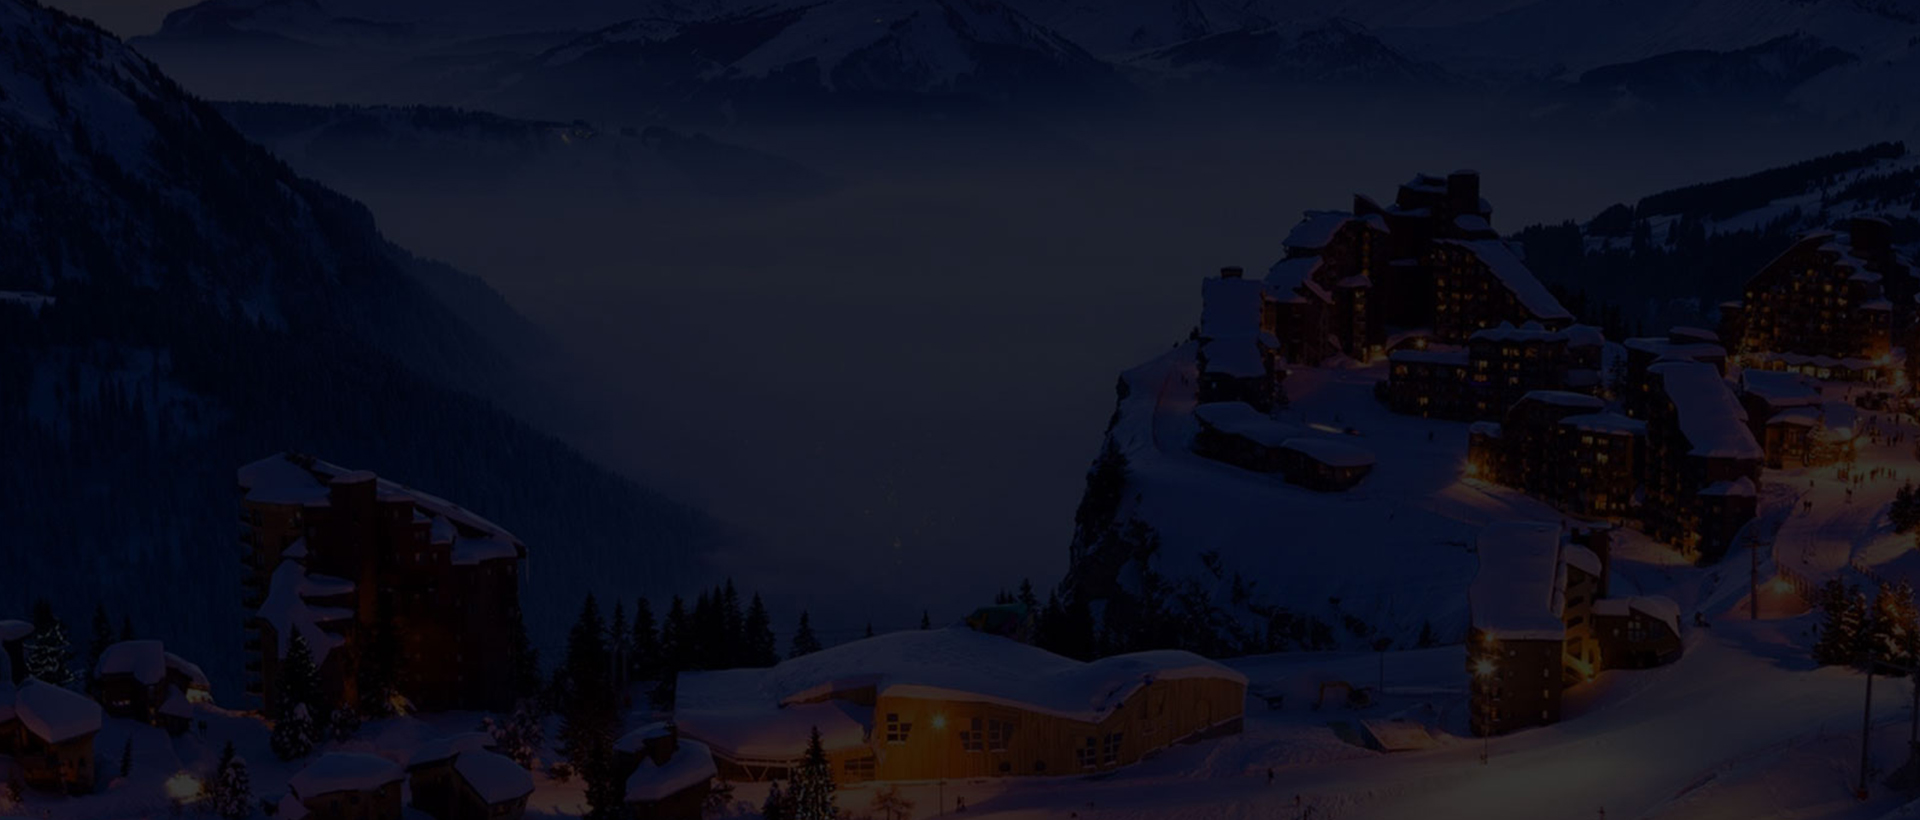
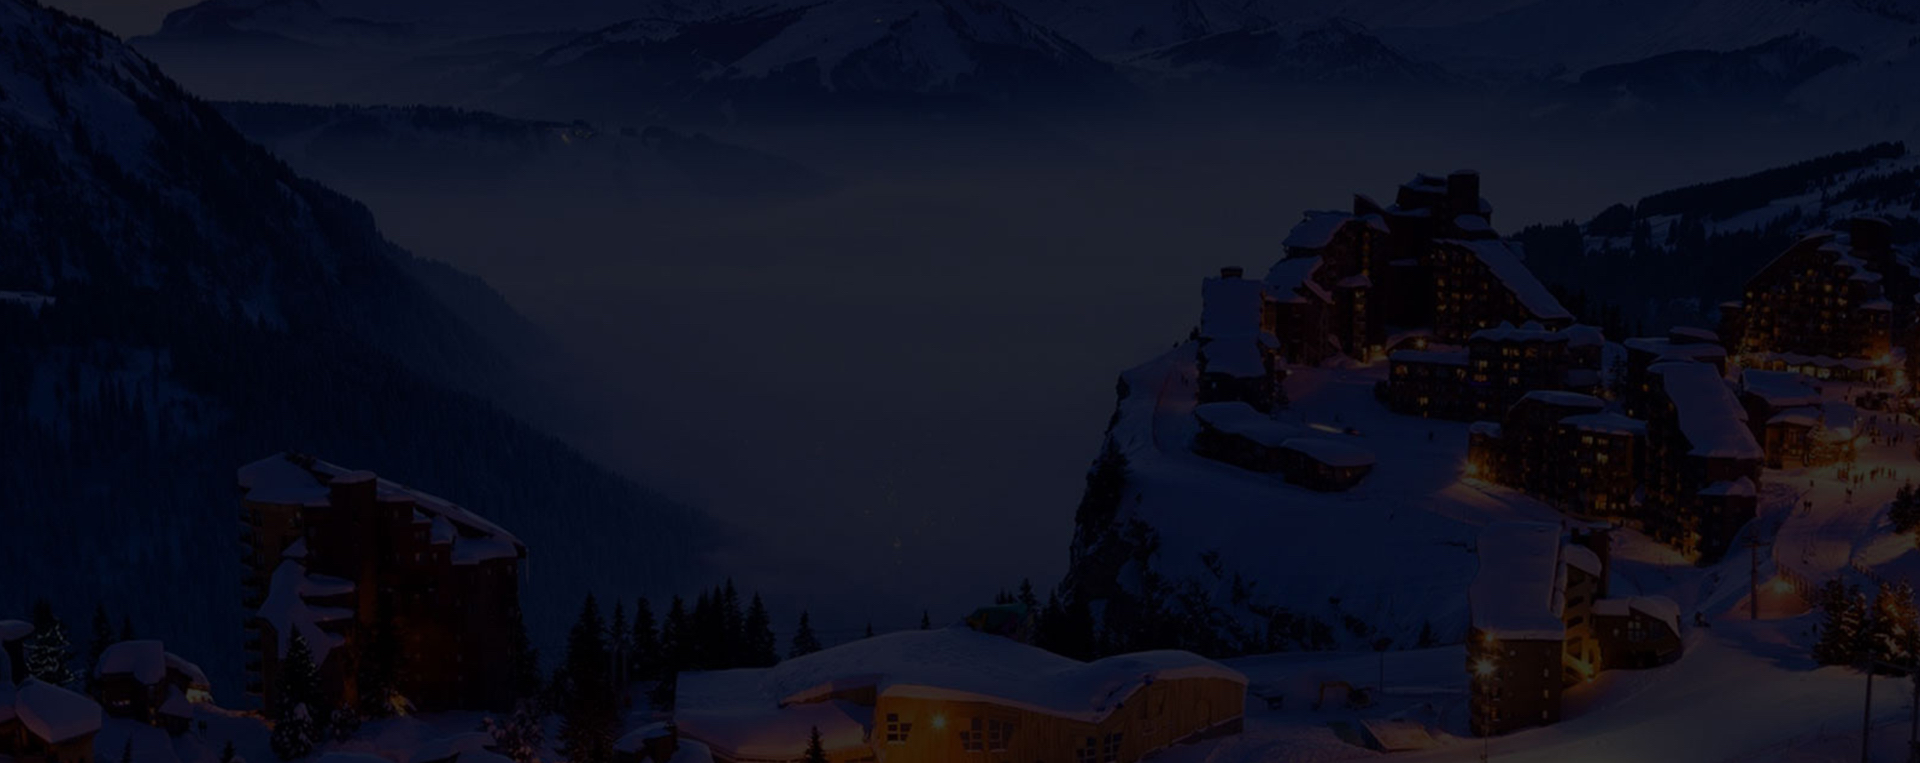
Add files via upload

diff --git a/assets/css/style.css b/assets/css/style.css
@@ -110,9 +110,9 @@ h3 strong {
 }
 
 #navPanel .close {
-	font-size: 2em;
+	font-size: 1.5em;
 	position: absolute;
-	top: 0.5em;
+	top: 0em;
 	right: 0.75em;
 	text-decoration: none;
 	background: none;
@@ -120,7 +120,7 @@ h3 strong {
 	color: #ffffff;
 	cursor: pointer;
 	line-height: 1;
-	z-index: 10012;
+	z-index: 10020;
 }
 
 #navPanel .close:hover {
@@ -130,15 +130,30 @@ h3 strong {
 
 /* Banner */
 #banner {
-	padding: 8em 0 9em ;
+	padding: 8em 0;
 	background-image: url(../../images/banner.jpg);
 	background-size: cover;
 	background-position: bottom;
 	background-repeat: no-repeat;
-	background-attachment: fixed;
 	text-align: center;
 	position: relative;
+	width: 100%;
 	margin-bottom: 2.5em;  
+}
+
+#banner:before {
+	content: '';
+	position: absolute;
+	width: 100%;
+	height: 100%;
+	top: 0;
+	left: 0;
+}
+
+#banner .inner {
+	position: relative;
+	z-index: 10005;
+	padding-top: 4em;
 }
 
 #banner:before {
@@ -159,7 +174,7 @@ h3 strong {
 #banner h3 {
 	color: #fff;
 	margin: 0;
-	font-size: 1.4em;
+	font-size: 1.1em;
 }
 
 #banner p {
@@ -231,13 +246,19 @@ h3 strong {
 /* Footer */
 #footer {
 	background: #6cc091;
-	color: #fff;
 	text-align: center;
 	padding: 2em 0;
 }
 
 #footer p {
 	margin: 0;
+	color: #fff;
+}
+
+.footer-contact span {
+  display: inline-block;
+  margin: 0 0.5em;
+  white-space: nowrap;
 }
 
 
@@ -270,6 +291,9 @@ h3 strong {
 	margin-left: 1rem;
 }
 
+ul {
+	padding: 0 1.5rem;
+}
 
 
 /* Table */
@@ -495,6 +519,34 @@ table.alt tfoot {
 	#header {
 		top: 0.5em;
 	}
+
+	#header .logo {
+		max-width: 130px;
+		height: auto;
+	}
+
+	.footer-contact span {
+		display: block;
+	}
+
+	.footer-contact .divider {
+		display: none;
+	}
+}
+
+@media screen and (max-width: 768px) {
+	.chain-safety, .chain-step {
+		flex-direction: column;
+		text-align: left;
+	}
+
+	.chain-safety img {
+		max-width: 100%;
+	}
+
+	.chain-safety p {
+		text-align: left;
+	}
 }
 
 /* ≤ 480px (Phones) */
@@ -507,51 +559,3 @@ table.alt tfoot {
 		font-size: 0.9em;
 	}
 }
-
-
-/* Small phones: up to 480px wide */
-@media screen and (max-width: 480px) {
-  body {
-    font-size: 15px;
-  }
-
-  h2 {
-    font-size: 1.5rem;
-  }
-
-  h3 {
-    font-size: 1.25rem;
-  }
-
-  p {
-    font-size: 1rem;
-  }
-
-  table, th, td {
-    font-size: 0.9rem;
-  }
-}
-
-/* Medium devices: 481px to 768px */
-@media screen and (min-width: 481px) and (max-width: 768px) {
-  body {
-    font-size: 16px;
-  }
-
-  h2 {
-    font-size: 1.65rem;
-  }
-
-  h3 {
-    font-size: 1.4rem;
-  }
-
-  p {
-    font-size: 1.05rem;
-  }
-
-  table, th, td {
-    font-size: 0.95rem;
-  }
-}
-

diff --git a/chains.html b/chains.html
@@ -28,7 +28,7 @@
     <section id="banner">
         <div class="inner align-center">
             <h3>SNOW CHAINS - Hire or Purchase</h3>
-            <p>Pick up as you pass, easy access. Call 1300 180 044 or email <a href="mailto:snow@snow.com.au">snow@snow.com.au</a></p>
+            <p>Pick up as you pass, easy access. <br>Call 1300 180 044 or Email <a href="mailto:snow@snow.com.au">snow@snow.com.au</a></p>
         </div>
     </section>
 
@@ -143,10 +143,16 @@
 </section>
 
     <!-- Footer -->
-    <footer id="footer">
+  	<footer id="footer">
         <div class="align-center">
-            <p>1300 180 044 &nbsp; | &nbsp; 58 Jindabyne Road, Berridale NSW &nbsp; | &nbsp; snow@snow.com.au</p>
-            <p>&copy; Fleets Sportsworld Berridale. All rights reserved.</p>
+            <p class="footer-contact">
+            <span>1300 180 044</span>
+            <span class="divider">|</span>
+            <span>58 Jindabyne Road, Berridale NSW</span>
+            <span class="divider">|</span>
+            <span>snow@snow.com.au</span>
+            </p>
+            <p>&copy; Fleets Sportsworld Berridale</p>
         </div>
     </footer>
 

diff --git a/index.html b/index.html
@@ -48,10 +48,17 @@
     <!-- Footer -->
     <footer id="footer">
         <div class="align-center">
-            <p>1300 180 044 &nbsp; | &nbsp; 58 Jindabyne Road, Berridale NSW &nbsp; | &nbsp; snow@snow.com.au</p>
-            <p>&copy; Fleets Sportsworld Berridale. All rights reserved.</p>
+            <p class="footer-contact">
+            <span>1300 180 044</span>
+            <span class="divider">|</span>
+            <span>58 Jindabyne Road, Berridale NSW</span>
+            <span class="divider">|</span>
+            <span>snow@snow.com.au</span>
+            </p>
+            <p>&copy; Fleets Sportsworld Berridale</p>
         </div>
     </footer>
+
 
     <!-- Javascript -->
     <script src="assets/js/script.js"></script>

diff --git a/hirerates.html b/hirerates.html
@@ -192,8 +192,14 @@
     <!-- Footer -->
     <footer id="footer">
         <div class="align-center">
-            <p>1300 180 044 &nbsp; | &nbsp; 58 Jindabyne Road, Berridale NSW &nbsp; | &nbsp; snow@snow.com.au</p>
-            <p>&copy; Fleets Sportsworld Berridale. All rights reserved.</p>
+            <p class="footer-contact">
+            <span>1300 180 044</span>
+            <span class="divider">|</span>
+            <span>58 Jindabyne Road, Berridale NSW</span>
+            <span class="divider">|</span>
+            <span>snow@snow.com.au</span>
+            </p>
+            <p>&copy; Fleets Sportsworld Berridale</p>
         </div>
     </footer>
 

diff --git a/contact.html b/contact.html
@@ -54,8 +54,14 @@
     <!-- Footer -->
     <footer id="footer">
         <div class="align-center">
-            <p>1300 180 044 &nbsp; | &nbsp; 58 Jindabyne Road, Berridale NSW &nbsp; | &nbsp; snow@snow.com.au</p>
-            <p>&copy; Fleets Sportsworld Berridale. All rights reserved.</p>
+            <p class="footer-contact">
+            <span>1300 180 044</span>
+            <span class="divider">|</span>
+            <span>58 Jindabyne Road, Berridale NSW</span>
+            <span class="divider">|</span>
+            <span>snow@snow.com.au</span>
+            </p>
+            <p>&copy; Fleets Sportsworld Berridale</p>
         </div>
     </footer>
 

diff --git a/location.html b/location.html
@@ -50,8 +50,14 @@
     <!-- Footer -->
     <footer id="footer">
         <div class="align-center">
-            <p>1300 180 044 &nbsp; | &nbsp; 58 Jindabyne Road, Berridale NSW &nbsp; | &nbsp; snow@snow.com.au</p>
-            <p>&copy; Fleets Sportsworld Berridale. All rights reserved.</p>
+            <p class="footer-contact">
+            <span>1300 180 044</span>
+            <span class="divider">|</span>
+            <span>58 Jindabyne Road, Berridale NSW</span>
+            <span class="divider">|</span>
+            <span>snow@snow.com.au</span>
+            </p>
+            <p>&copy; Fleets Sportsworld Berridale</p>
         </div>
     </footer>
 
